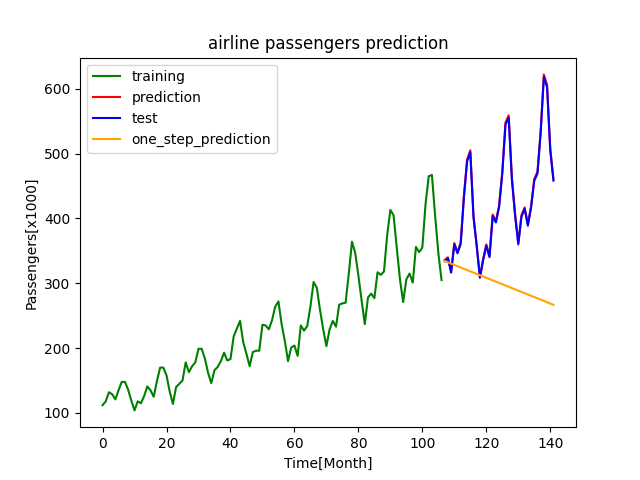
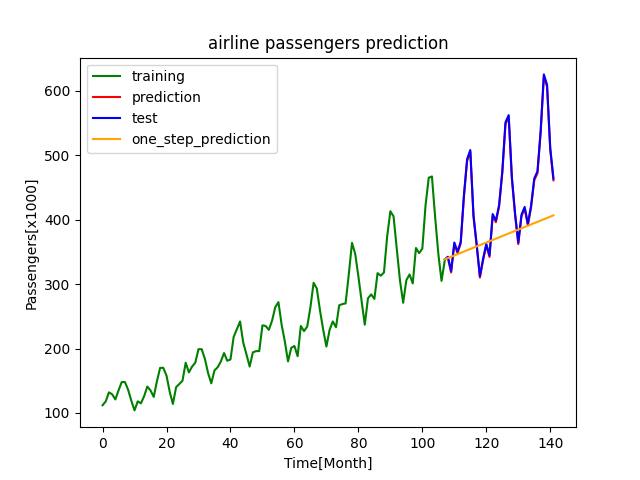
refactor airline_passengers_forecasting_keras.py

diff --git a/TimeSeriesPrediction/2_UnivariantTimeSeriesForecast/airline_passengers_forecasting_keras.py b/TimeSeriesPrediction/2_UnivariantTimeSeriesForecast/airline_passengers_forecasting_keras.py
@@ -10,57 +10,66 @@ class AirlinePassengersDataSet:
         self.data.drop(["Month"], inplace=True, axis=1)
 
     def create_targets(self):
-        passengers_shift_1 = self.data.loc[:, "Passengers"].shift(-1)
-        self.data["Passengers+1"] = passengers_shift_1
+        self.data["Passengers+1"] = self.data.loc[:, "Passengers"].shift(-1)
         self.data = self.data[:-2]
 
-    def get_train_test(self):
-        train = self.data[0:107]
-        test = self.data[107:142]
-        return train, test
+    def get_train_inputs(self):
+        return self.data.loc[0:107, "Passengers"]
+
+    def get_train_targets(self):
+        return self.data.loc[0:107, "Passengers+1"]
+
+    def get_test_inputs(self):
+        return self.data.loc[107:142, "Passengers"]
+
+    def get_test_targets(self):
+        return self.data.loc[107:142, "Passengers+1"]
+
+    def get_last_train_input(self):
+        return self.data.loc[0:107, "Passengers"].tail(1).item()
 
 
-timeseries = AirlinePassengersDataSet()
-timeseries.create_targets()
-train, test = timeseries.get_train_test()
+airlinePassengers = AirlinePassengersDataSet()
+airlinePassengers.create_targets()
 
-# LSTM input shape = (samples, timesteps, features)
-train_inputs_array = train.loc[:, "Passengers"].to_numpy()
-train_inputs_array = train_inputs_array.reshape(train_inputs_array.shape[0], 1, 1)
-train_targets = train.loc[:, "Passengers+1"]
 
-model = tf.keras.Sequential()
-model.add(tf.keras.layers.Dense(units=8, activation="relu"))
-model.add(tf.keras.layers.Dense(units=1))
-model.compile(optimizer=tf.keras.optimizers.Adam(0.001), loss='mean_squared_error')
-model.fit(train_inputs_array, train_targets, epochs=25, batch_size=1)
+def create_FFN():
+    model = tf.keras.Sequential()
+    model.add(tf.keras.layers.Dense(units=8, activation="relu"))
+    model.add(tf.keras.layers.Dense(units=1))
+    model.compile(optimizer=tf.keras.optimizers.Adam(0.001), loss='mean_squared_error')
+    model.fit(airlinePassengers.get_train_inputs(), airlinePassengers.get_train_targets(), epochs=25, batch_size=1)
+    return model
+
+
+ffn = create_FFN()
 
 results = pd.DataFrame()
-results["true"] = test["Passengers"]
+results["true"] = airlinePassengers.get_test_targets().shift(1)
 
 
-def validation_forecast(inputs):
+def validation_forecast(model, inputs):
     predictions = model.predict(inputs)
     return predictions.flatten().tolist()
 
 
-validation_inputs = test.loc[:, "Passengers"]
-results["validation"] = validation_forecast(validation_inputs)
+validation_inputs = airlinePassengers.get_test_inputs()
+results["validation"] = validation_forecast(ffn, validation_inputs)
 
 
-def one_step_ahead_forecast(current_value):
+def one_step_ahead_forecast(model, current_value, number_of_predictions):
     one_step_ahead_forecast = list()
-    for element in range(0, len(test)):
+    for element in range(0, number_of_predictions):
         prediction = model.predict([current_value])
-        one_step_ahead_forecast.append(prediction[0][0][0])
+        one_step_ahead_forecast.append(prediction[0][0])
         current_value = prediction[0]
     return one_step_ahead_forecast
 
 
-start_value = train.iloc[-1:, 1]
-results["one_step_prediction"] = one_step_ahead_forecast(start_value)
+start_value = airlinePassengers.get_last_train_input()
+results["one_step_prediction"] = one_step_ahead_forecast(ffn, start_value, len(airlinePassengers.get_test_targets()))
 
-plt.plot(train["Passengers"], color="green", label="training")
+plt.plot(airlinePassengers.get_train_inputs(), color="green", label="training")
 plt.plot(results["true"], color="red", label="prediction")
 plt.plot(results["validation"], color="blue", label="test")
 plt.plot(results["one_step_prediction"], color="orange", label="one_step_prediction")
